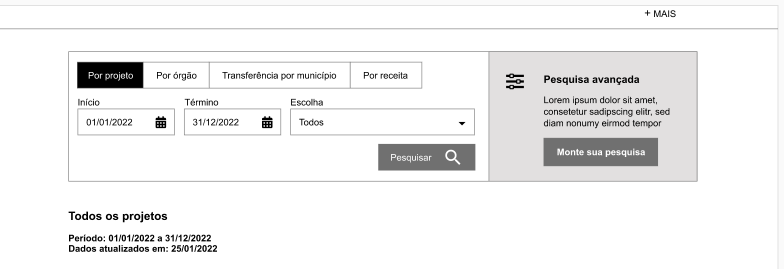
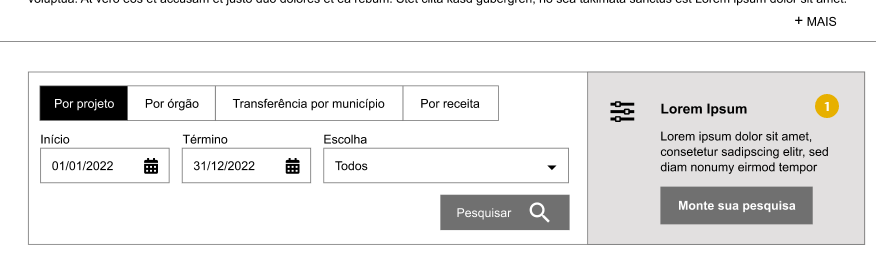
Homologa telas wireframe

diff --git a/espec018_recursos-acordo-judicial-vale/recursos-vale-wireframe-homologa.md b/espec018_recursos-acordo-judicial-vale/recursos-vale-wireframe-homologa.md
@@ -54,7 +54,7 @@ ____
 
 ### Slide 34
 
-<div class="alert alert-danger">
+<div class="alert alert-success">
 
 CORRIGIR
 --
@@ -120,7 +120,7 @@ Acrescentar a opção compartilhar pelo WhatsApp
 ----
 
 ### Slide 8
-<div class="alert alert-danger">
+<div class="alert alert-success">
 
 ATENÇÃO
 --
@@ -135,7 +135,7 @@ Assim, sugere-se:
 
 - Manter o padrão, atualmente, adotado no Portal, ou seja, abrir os dados em outra aba, possibilitando ao usuário compartilhar a *url*
 
-![](static/imagens/wireframe-modal-detalhe.png)
+![](static/imagens/wireframe-modal-detalhe-corrigido.png)
   </div>
 
 ----
@@ -217,7 +217,7 @@ Por exemplo, caso o usuário queira excluir o campo 'Órgãos' ele poderá fazer
 
 ### Slide 22
 
-<div class="alert alert-danger">
+<div class="alert alert-info">
 
 Ressaltamos que ao compartilhar a *url* da tabela de resultados do monte sua pesquisa o usuário estará compartilhando o resultado exibido, ou seja, caso ele salve o link e posteriormente decida consultar novamente todos os filtros já aplicados estarão presentes.
 
@@ -236,22 +236,20 @@ Reforçamos que ao clicar em um qualquer termo o usuário deverá ser direcionad
   </div>
 
 
-  <div class="alert alert-danger">
+  <div class="alert alert-success">
 
-Alterar
---
 
 ### [Filtro Exibir](https://xd.adobe.com/view/965f7297-a884-462e-af3c-902944963cb1-c30c/screen/f342f2a6-6869-4a32-98aa-c77e9fe30dd3)
 
 A opção escolhida pela CGE refere-se  a versão expandida com as seguinte alterações:
 
-- A opção 'exibir todos' deverá ficar dentro da barra horizontal conforme foi sugerido na versão compactada. Lembrando que o número referente ao quantitativo de opções possíveis deverá ser mantido.
+- ~A opção 'exibir todos' deverá ficar dentro da barra horizontal conforme foi sugerido na versão compactada. Lembrando que o número referente ao quantitativo de opções possíveis deverá ser mantido~ OK.
 
 - ~Acrescentar o símbolo "..." ao da lado da lupa. **OK**~
 - ~O comportamento do 'exibir todos' e do símbolo serão os mesmos, ou seja, abrirá o popup com as opções de seleção. **OK**~
 
 Na imagem abaixo tentei reproduzir a ideia:
 
-![](static/imagens/wireframe-filtros-monte-sua-pesquisa.png)
+![](static/imagens/wireframe-filtros-monte-sua-pesquisa-corrigido.png)
 
   </div>
